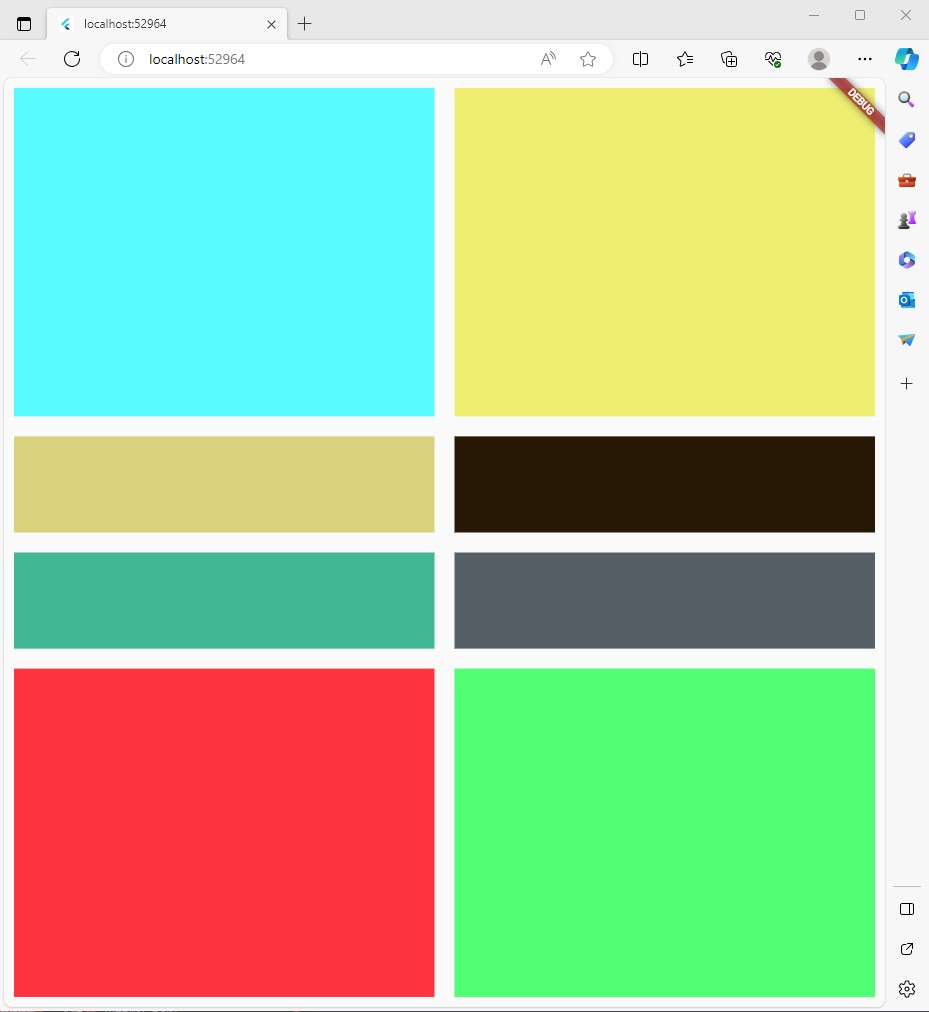
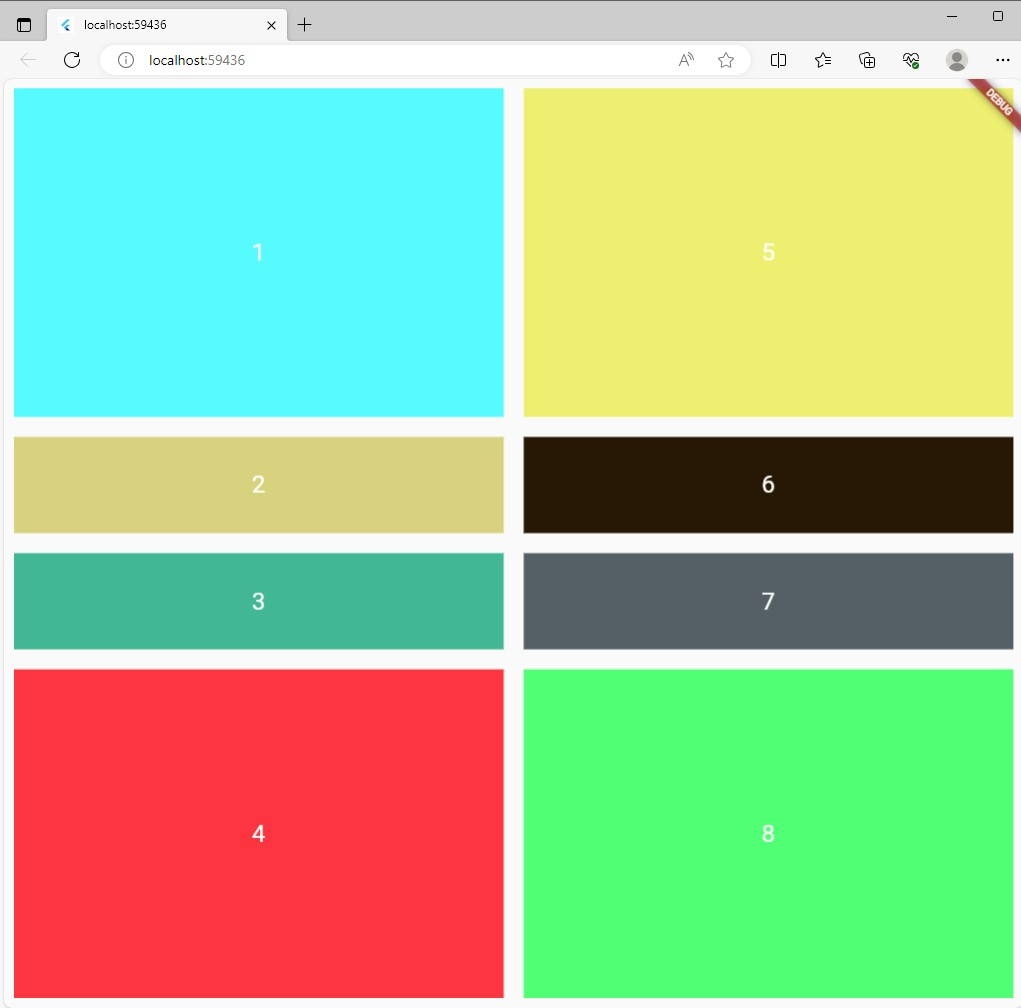
first

diff --git a/lib/main.dart b/lib/main.dart
@@ -31,6 +31,15 @@ class ClosetWidget extends StatelessWidget {
                 child: Container(
                   color: const Color.fromARGB(255, 77, 249, 255),
                   margin: EdgeInsets.all(10.0),
+                  child: Center(
+                    child: Text(
+                      '1',
+                      style: TextStyle(
+                        color: Colors.white,
+                        fontSize: 24.0,
+                      ),
+                    ),
+                  ),
                 ),
               ),
               Expanded(
@@ -38,6 +47,15 @@ class ClosetWidget extends StatelessWidget {
                 child: Container(
                   color: Color.fromARGB(255, 216, 210, 120),
                   margin: EdgeInsets.all(10.0),
+                  child: Center(
+                    child: Text(
+                      '2',
+                      style: TextStyle(
+                        color: Colors.white,
+                        fontSize: 24.0,
+                      ),
+                    ),
+                  ),
                 ),
               ),
               Expanded(
@@ -45,6 +63,15 @@ class ClosetWidget extends StatelessWidget {
                 child: Container(
                   color: const Color.fromARGB(255, 58, 183, 146),
                   margin: EdgeInsets.all(10.0),
+                  child: Center(
+                    child: Text(
+                      '3',
+                      style: TextStyle(
+                        color: Colors.white,
+                        fontSize: 24.0,
+                      ),
+                    ),
+                  ),
                 ),
               ),
               Expanded(
@@ -52,6 +79,15 @@ class ClosetWidget extends StatelessWidget {
                 child: Container(
                   color: const Color.fromARGB(255, 255, 59, 59),
                   margin: EdgeInsets.all(10.0),
+                  child: Center(
+                    child: Text(
+                      '4',
+                      style: TextStyle(
+                        color: Colors.white,
+                        fontSize: 24.0,
+                      ),
+                    ),
+                  ),
                 ),
               ),
             ],
@@ -66,6 +102,15 @@ class ClosetWidget extends StatelessWidget {
                 child: Container(
                   color: const Color.fromARGB(255, 238, 240, 105),
                   margin: EdgeInsets.all(10.0),
+                  child: Center(
+                    child: Text(
+                      '5',
+                      style: TextStyle(
+                        color: Colors.white,
+                        fontSize: 24.0,
+                      ),
+                    ),
+                  ),
                 ),
               ),
               Expanded(
@@ -73,6 +118,15 @@ class ClosetWidget extends StatelessWidget {
                 child: Container(
                   color: const Color.fromARGB(255, 39, 24, 4),
                   margin: EdgeInsets.all(10.0),
+                  child: Center(
+                    child: Text(
+                      '6',
+                      style: TextStyle(
+                        color: Colors.white,
+                        fontSize: 24.0,
+                      ),
+                    ),
+                  ),
                 ),
               ),
               Expanded(
@@ -80,6 +134,15 @@ class ClosetWidget extends StatelessWidget {
                 child: Container(
                   color: const Color.fromARGB(255, 84, 96, 102),
                   margin: EdgeInsets.all(10.0),
+                  child: Center(
+                    child: Text(
+                      '7',
+                      style: TextStyle(
+                        color: Colors.white,
+                        fontSize: 24.0,
+                      ),
+                    ),
+                  ),
                 ),
               ),
               Expanded(
@@ -87,6 +150,15 @@ class ClosetWidget extends StatelessWidget {
                 child: Container(
                   color: const Color.fromARGB(255, 68, 255, 109),
                   margin: EdgeInsets.all(10.0),
+                  child: Center(
+                    child: Text(
+                      '8',
+                      style: TextStyle(
+                        color: Colors.white,
+                        fontSize: 24.0,
+                      ),
+                    ),
+                  ),
                 ),
               ),
             ],
